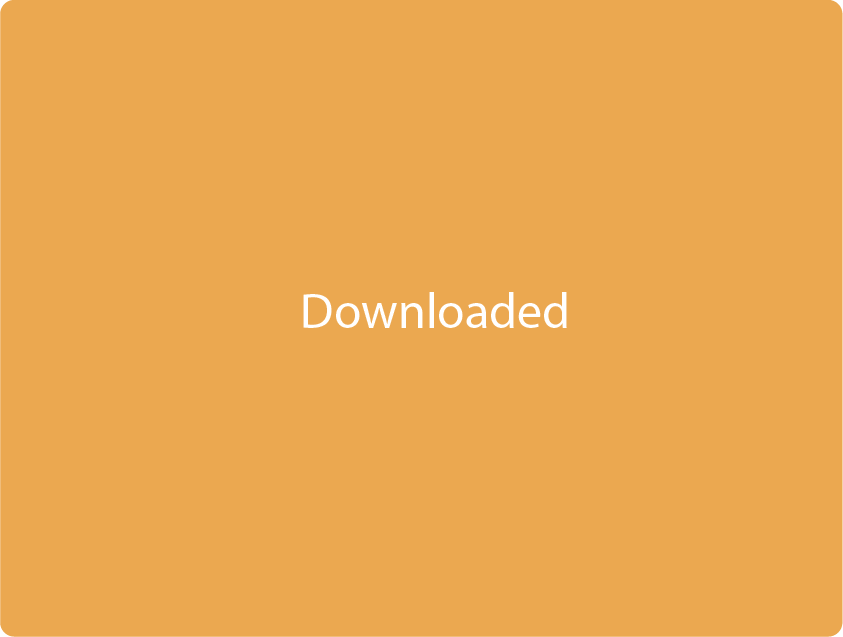
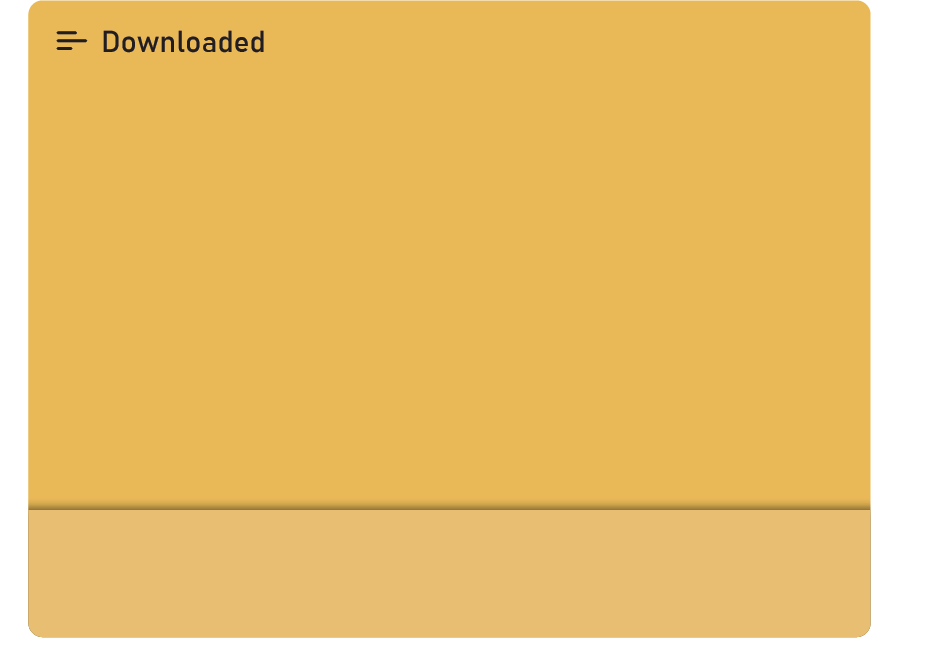
new : downloaded page implimented

diff --git a/main.py b/main.py
@@ -972,7 +972,188 @@ def downloaded_panel_func():
     downloadedPanelFrame.place(x=310, y=2)
 
     downloadedPanel = Label(downloadedPanelFrame, bd=0, bg=backgroundColor, image=downloadedPanelPng)
-    downloadedPanel.place(x=6, y=11)
+    downloadedPanel.place(x=-22, y=15)
+
+    conn = sqlite3.connect("movies_data.db")
+    cur = conn.cursor()
+    cur.execute("select * from movies where download_status = 'Yes'")
+    global data4
+    data4 = cur.fetchall()
+    rowcount = len(data4)
+    conn.close()
+
+    if rowcount == 0:
+        smily = Label(downloadedPanelFrame, text="Nothing Found :)", bd=0, bg=yellow_dark, fg=black_font, font=(font, 30, "normal"))
+        smily.place(x=280, y=250)
+
+        emptyLabel = Label(downloadedPanelFrame, text="It's Empty Here !", bd=0, bg=yellow_light, fg=black_font,
+                      font=(font, 20, "normal"))
+        emptyLabel.place(x=330, y=550)
+        return
+
+    # data[<row>][<column>]
+
+    global maxLength
+    maxLength = rowcount - 1
+    global current_movie
+    current_movie = 0
+    global next_movie
+    next_movie = current_movie + 1
+    global movieName
+    movieName = 1
+    global release_day
+    release_day = 2
+    global release_month
+    release_month = 3
+    global release_year
+    release_year = 4
+    global watched_status
+    watched_status = 5
+    global link
+    link = 7
+    global origin
+    origin = 8
+
+    movieLabel = Label(downloadedPanelFrame, text=data4[current_movie][movieName], bd=0, bg=yellow_dark, fg=black_font,
+                           font=(font, 35, 'normal'))
+    movieLabel.place(x=78, y=100)
+
+    originLabel = Label(downloadedPanelFrame, text="Origin : " + data4[current_movie][origin], bd=0, bg=yellow_dark,
+                            fg=black_font, font=(font, 30, 'normal'))
+    originLabel.place(x=110, y=175)
+
+    releaseDateLabel = Label(downloadedPanelFrame,
+                                text="Release Date : " + str(data4[current_movie][release_day]) + " " + month_string(
+                                str(data4[current_movie][release_month])) + " " + str(
+                                data4[current_movie][release_year]),
+                                bd=0, bg=yellow_dark,
+                                fg=black_font,
+                                font=(font, 30, 'normal'))
+    releaseDateLabel.place(x=110, y=235)
+
+    watchedStatusLabel = Label(downloadedPanelFrame, text="Watched : " + data4[current_movie][watched_status],
+                                    bd=0, bg=yellow_dark, fg=black_font, font=(font, 30, 'normal'))
+    watchedStatusLabel.place(x=110, y=290)
+
+    linkLabel = Label(downloadedPanelFrame, text="Link : ", bd=0, bg=yellow_dark, fg=black_font,
+                          font=(font, 30, 'normal'))
+    linkLabel.place(x=110, y=350)
+
+    linkEntry = Entry(downloadedPanelFrame, bd=0, bg=yellow_dark, width=25, fg=black_font, font=(font, 30, 'normal'),
+                          justify="left")
+    linkEntry.place(x=220, y=350)
+    linkEntry.insert(0, data4[current_movie][link])
+
+    counterEntry = Entry(downloadedPanelFrame, bd=0, bg=yellow_dark, width=10, fg=black_font, font=(font, 35, 'normal'),
+                             justify="right")
+    counterEntry.place(x=560, y=450)
+    counterEntry.insert(0, str(current_movie + 1) + " of " + str(rowcount))
+
+    upNextLabel = Label(downloadedPanelFrame, text="Up Next", bd=0, bg=yellow_light, fg=black_font,
+                            font=(font, 20, 'normal'))
+    upNextLabel.place(x=78, y=530)
+
+    try:
+        nextMovieLabel = Label(downloadedPanelFrame, text=data4[next_movie][movieName], bd=0, bg=yellow_light,
+                                fg=font_darkcolor,
+                                font=(font, 16, 'normal'))
+        nextMovieLabel.place(x=97, y=575)
+
+        nextMovieYearLabel = Label(downloadedPanelFrame, text=data4[next_movie][release_year], bd=0, bg=yellow_light,
+                                   fg=font_darkcolor, font=(font, 16, 'normal'))
+        nextMovieYearLabel.place(x=97, y=610)
+    except:
+        pass
+
+    def back_button_func():
+        global data4
+        global maxLength
+        global current_movie
+        global next_movie
+        global movieName
+        global release_day
+        global release_month
+        global release_year
+        global watched_status
+        global link
+        global origin
+
+        if maxLength != 0:
+            next_movie = current_movie + 1
+
+            if current_movie > 0:
+                current_movie -= 1
+                movieLabel.config(text=data4[current_movie][movieName])
+                originLabel.config(text="Origin : " + data4[current_movie][origin])
+                releaseDateLabel.config(
+                    text="Release Date : " + str(data4[current_movie][release_day]) + " " + month_string(
+                    str(data4[current_movie][release_month])) + " " + str(data4[current_movie][release_year]))
+                watchedStatusLabel.config(text="Watched : " + data4[current_movie][watched_status])
+                linkEntry.delete(0, END)
+                linkEntry.insert(0, data4[current_movie][link])
+                counterEntry.delete(0, END)
+                counterEntry.insert(0, str(current_movie + 1) + " of " + str(rowcount))
+
+            if next_movie > 1:
+                next_movie -= 1
+                nextMovieLabel.config(text=data4[next_movie][movieName])
+                nextMovieYearLabel.config(text=data4[next_movie][release_year])
+
+    backButtonFrame = LabelFrame(downloadedPanelFrame, bd=0, height=50, width=100, bg=yellow_light)
+    backButtonFrame.place(x=590, y=565)
+    backButton = Button(backButtonFrame, bd=0, bg=yellow_light, activebackground=yellow_light, image=backDarkButtonPng,
+                        command=back_button_func)
+    backButton.place(x=0, y=0)
+
+    def next_button_func():
+        global data4
+        global maxLength
+        global current_movie
+        global next_movie
+        global movieName
+        global release_day
+        global release_month
+        global release_year
+        global watched_status
+        global link
+        global origin
+
+        if maxLength != 0:
+            next_movie = current_movie + 1
+
+            if current_movie < maxLength:
+                current_movie += 1
+                movieLabel.config(text=data4[current_movie][movieName])
+                originLabel.config(text="Origin : " + data4[current_movie][origin])
+                releaseDateLabel.config(
+                    text="Release Date : " + str(data4[current_movie][release_day]) + " " + month_string(
+                        str(data4[current_movie][release_month])) + " " + str(data4[current_movie][release_year]))
+                watchedStatusLabel.config(text="Watched : " + data4[current_movie][watched_status])
+                linkEntry.delete(0, END)
+                linkEntry.insert(0, data4[current_movie][link])
+                counterEntry.delete(0, END)
+                counterEntry.insert(0, str(current_movie + 1) + " of " + str(rowcount))
+
+            if next_movie < maxLength:
+                next_movie += 1
+                nextMovieLabel.config(text=data4[next_movie][movieName])
+                nextMovieYearLabel.config(text=data4[next_movie][release_year])
+            else:
+                nextMovieLabel.config(text="Finished !")
+                nextMovieYearLabel.config(text="")
+
+    nextButtonFrame = LabelFrame(downloadedPanelFrame, bd=0, height=50, width=100, bg=yellow_light)
+    nextButtonFrame.place(x=710, y=565)
+    nextButton = Button(nextButtonFrame, bd=0, bg=yellow_light, activebackground=yellow_light, image=nextDarkButtonPng,
+                            command=next_button_func)
+    nextButton.place(x=0, y=0)
+
+    def edit_button_func():
+        edit_page(downloadedPanelFrame, data4[current_movie][0])
+
+    editButton = Button(downloadedPanelFrame, bd=0, bg=yellow_dark, activebackground=yellow_dark, image=editDarkButtonPng,
+                        command=edit_button_func)
+    editButton.place(x=710, y=35)
 
 # All Movies Panel
 
